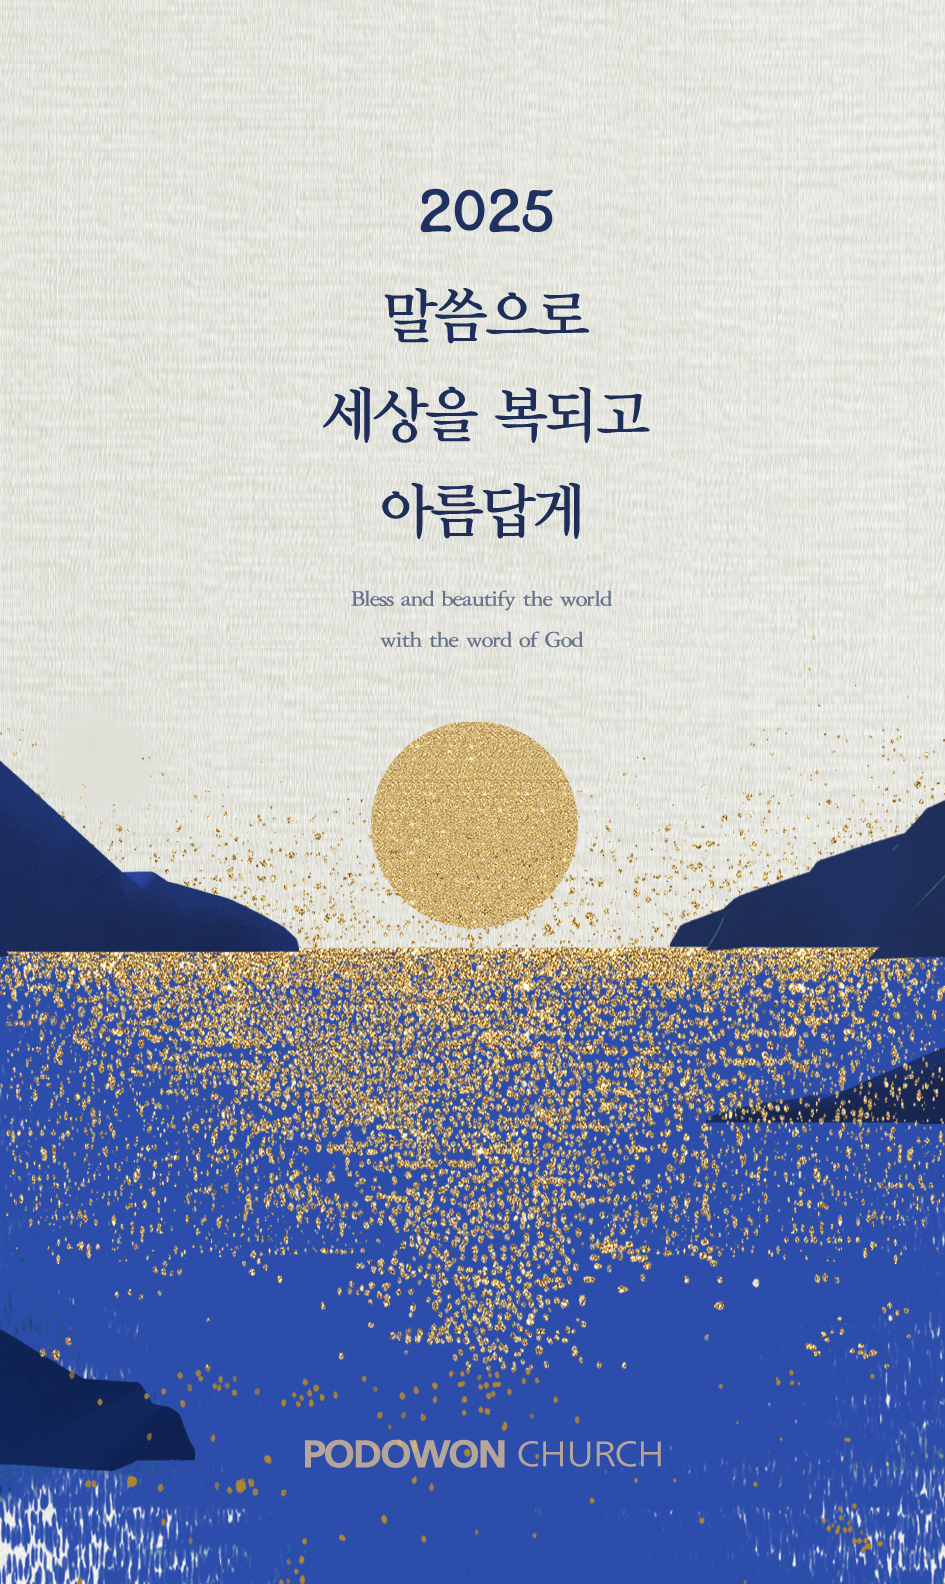
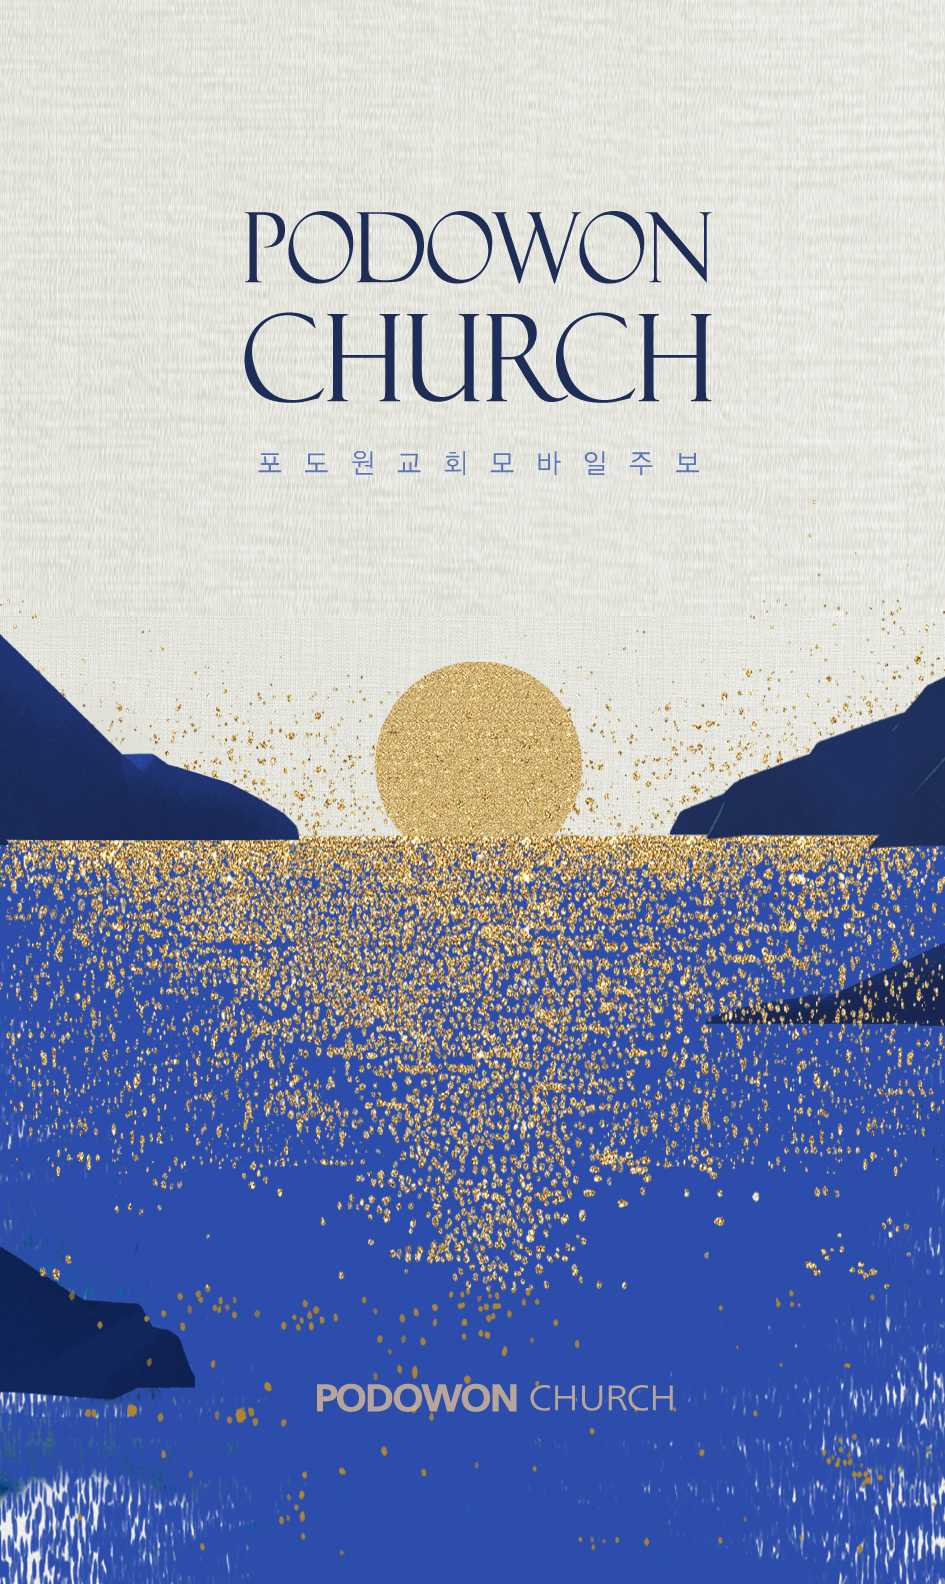
v1

diff --git a/digital.html b/digital.html
@@ -57,7 +57,7 @@
 
                     <img src="asset/image/common/main.webp" class="mainImage">
                 
-                    <!-- <img src="asset/image/common/2024표어.webp" class="mainImage"> -->
+                    <img src="asset/image/common/표어.webp" class="mainImage">
                     <!-- 이번주 말씀 -->
                     <img src="asset/image/common/말씀요약.webp" class="mainImage">
                   
